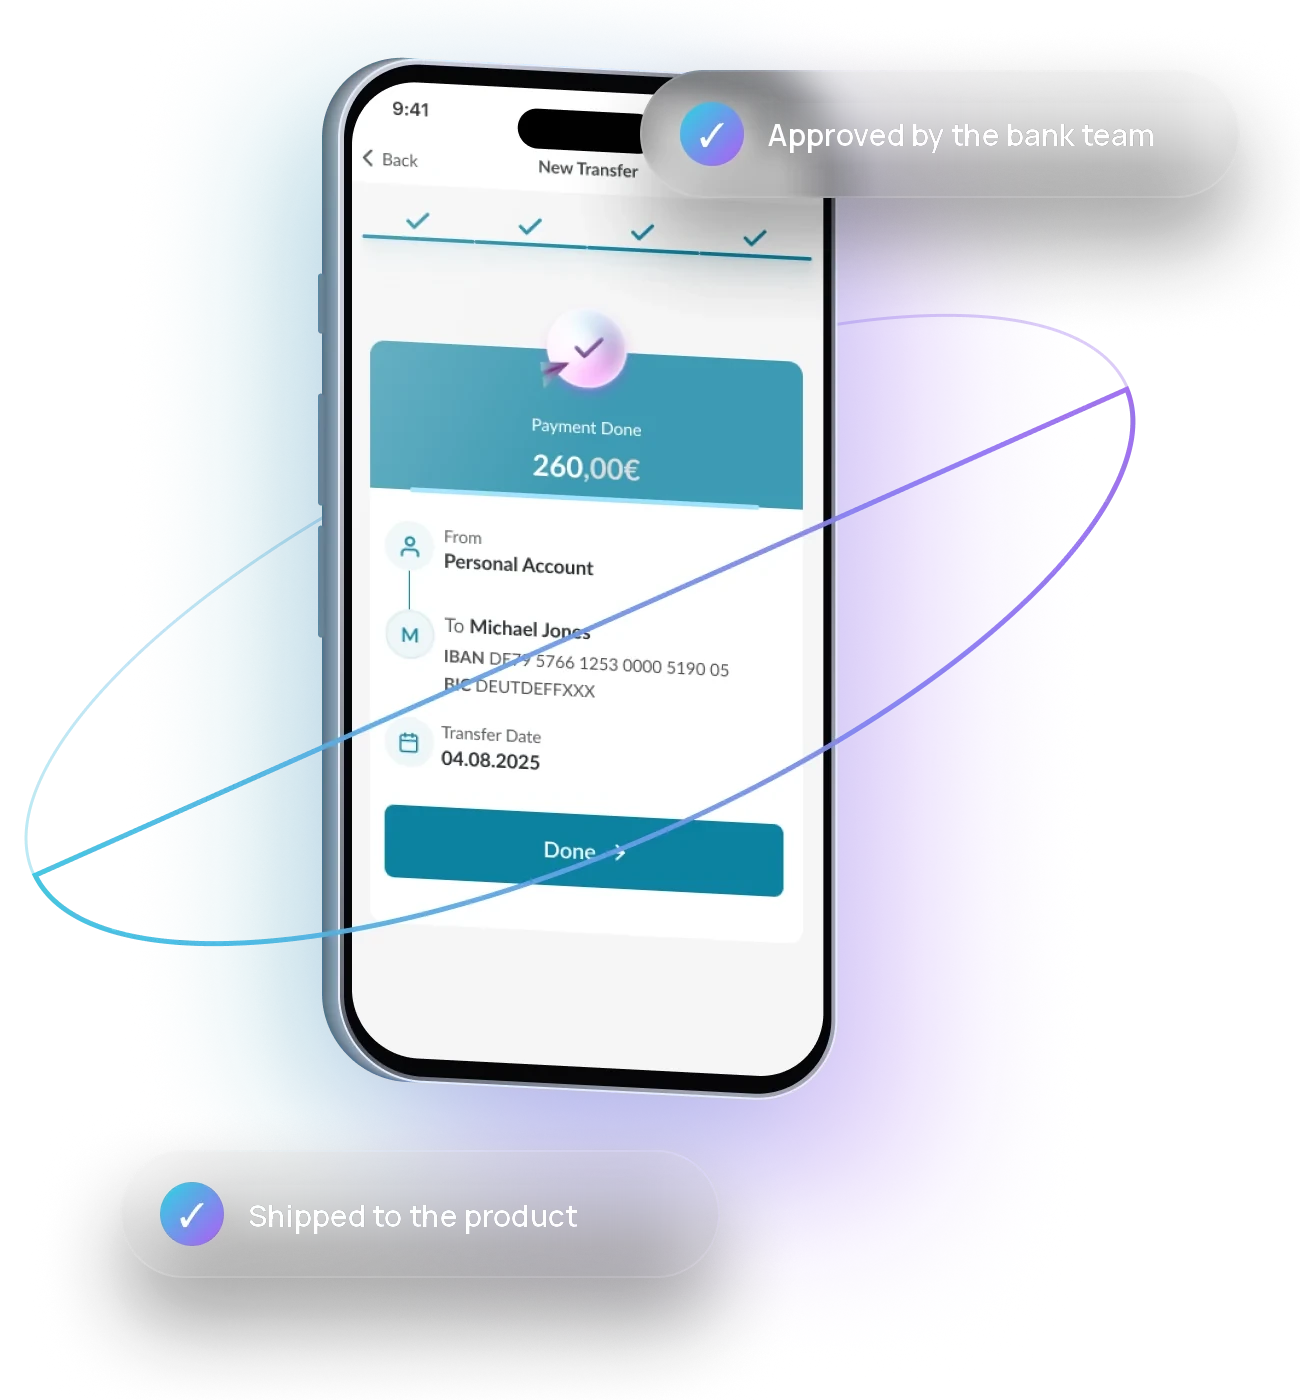
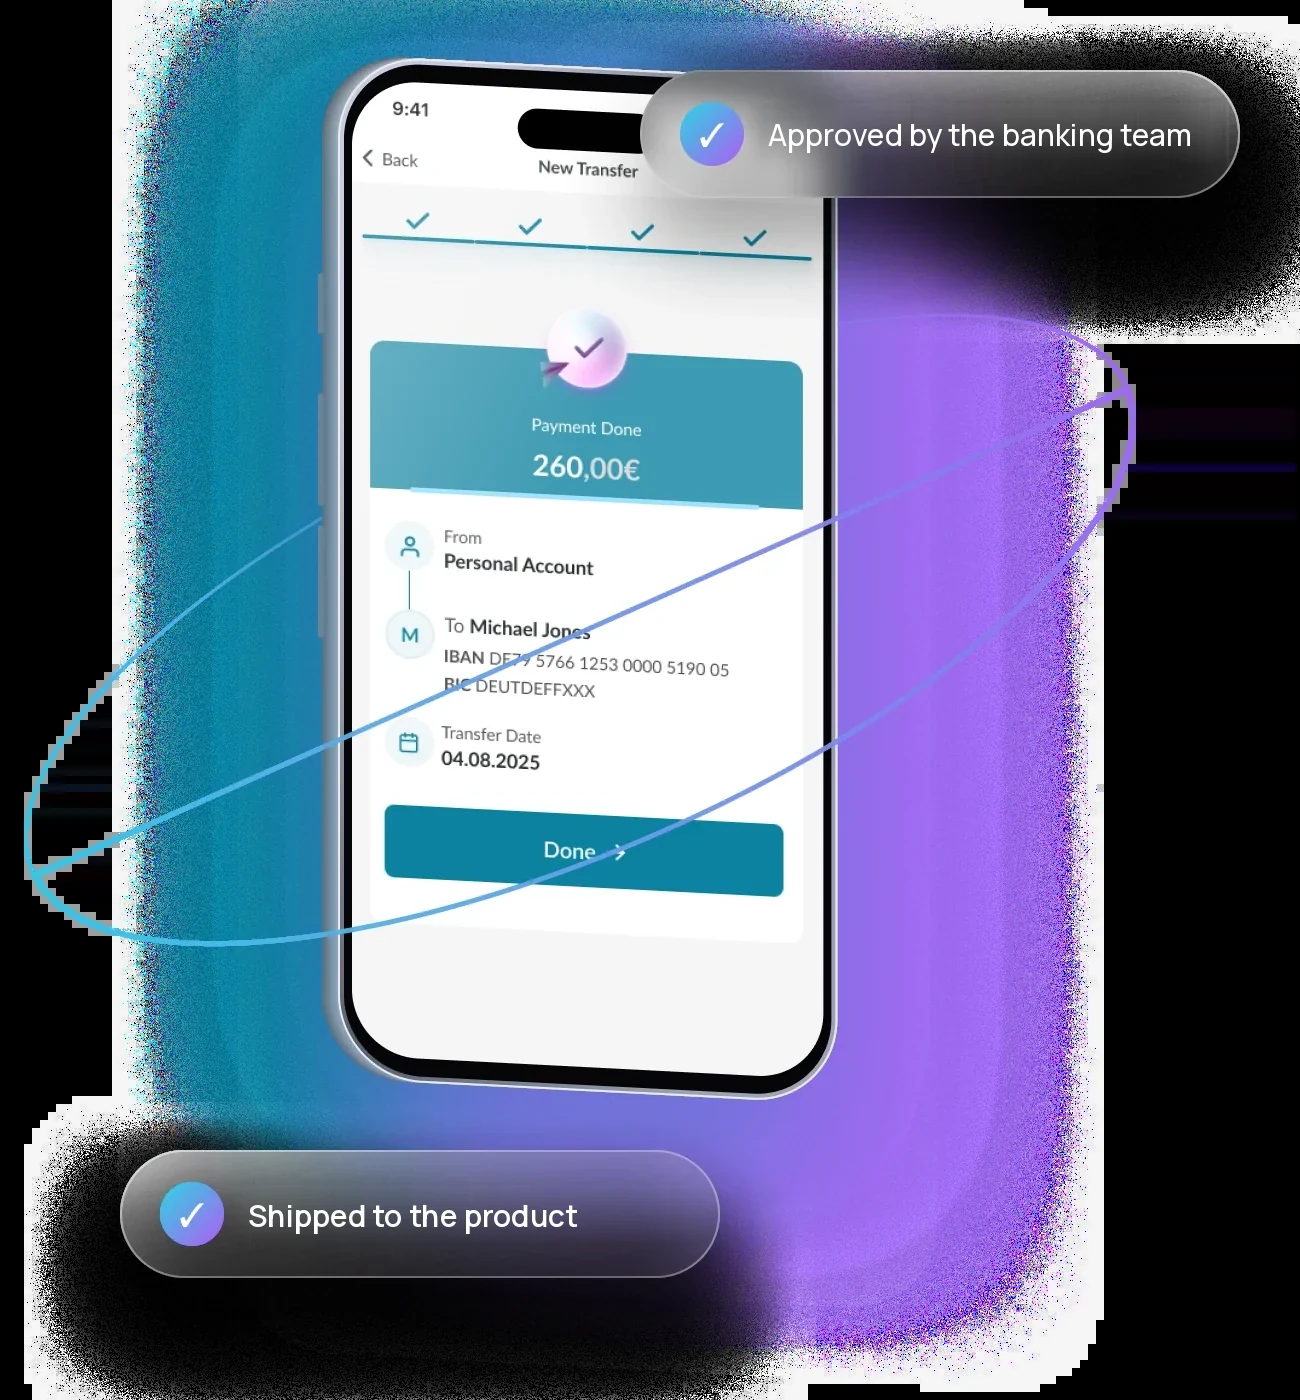
EN transfers: Banking team wording in result section and chip
Claude-Session: https://claude.ai/code/session_011pq2ADq6rPTZrVGSK3qx6v

diff --git a/en/cases/transfers.html b/en/cases/transfers.html
@@ -273,7 +273,7 @@
       <div class="st">
         <div class="a" style="--x:0; --y:120; --w:640">
           <p class="lbl">Result</p>
-          <h2 style="margin-top:26px">The bank team approved the solution.</h2>
+          <h2 style="margin-top:26px">The Banking team approved the solution.</h2>
           <h2 class="grad-text">The interfaces I designed shipped to the product.</h2>
           <ul class="res-list">
             <li>A main path of 6 steps, from recipient to the "Done" screen, and 5 branches: new recipient, recurring payment, insufficient funds, and two branches by recipient country: European and SWIFT. All for web and mobile app.</li>
@@ -281,7 +281,7 @@
             <li>Interfaces are built on design system components; new components (toggle, chips, calendar) expanded it.</li>
           </ul>
         </div>
-        <img class="a" style="--x:660; --y:80; --w:650" src="../../assets/img/tr/result-en.webp?v=1793480100" width="1300" height="1400" loading="lazy" alt="Phone with the Payment Done screen and marks 'Approved by the bank team' and 'Shipped to the product'">
+        <img class="a" style="--x:660; --y:80; --w:650" src="../../assets/img/tr/result-en.webp?v=1793500200" width="1300" height="1400" loading="lazy" alt="Phone with the Payment Done screen and marks 'Approved by the banking team' and 'Shipped to the product'">
       </div>
     </section>
   </main>
